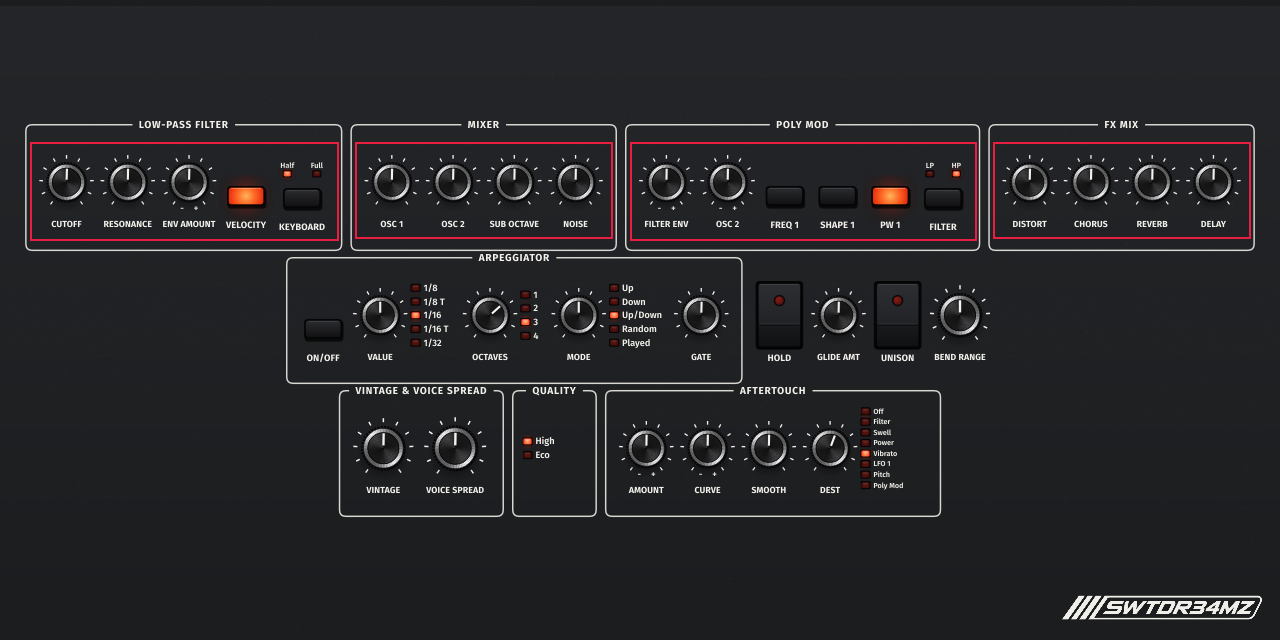
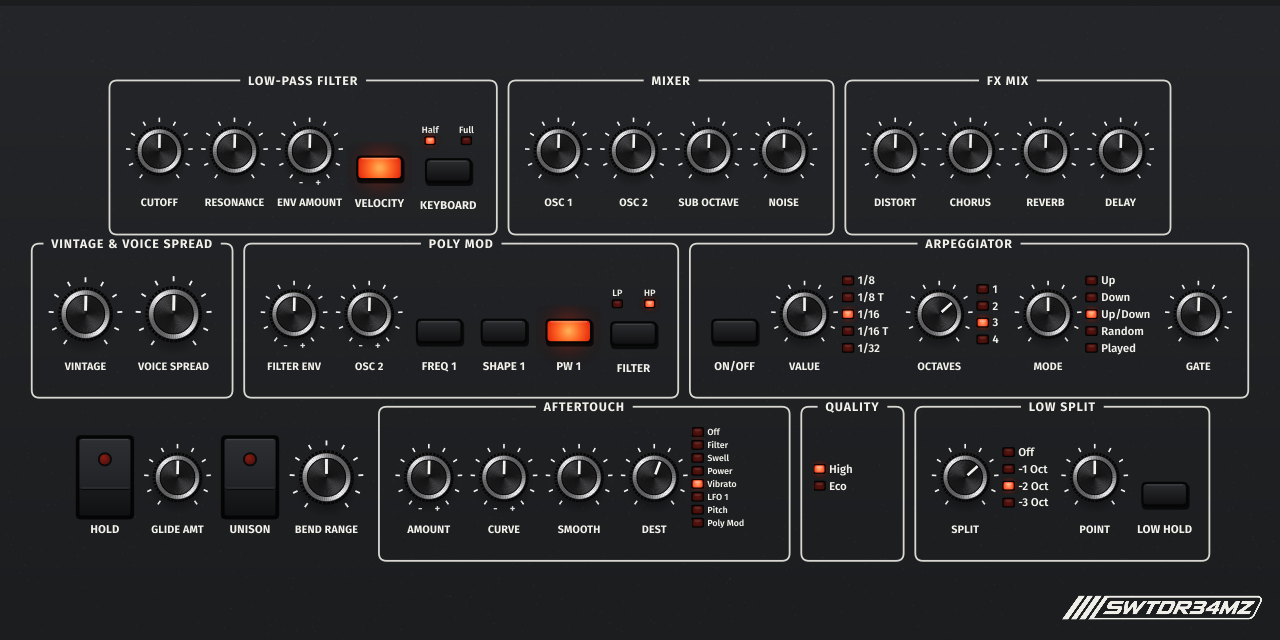
MPC: the handover (mpc/UEBERGABE.md), the catalog screenshot of the QUICK page as it is now
Claude-Session: https://claude.ai/code/session_019gwqiPBJFdyLn4VbSR5Sq5

diff --git a/mpc/UEBERGABE.md b/mpc/UEBERGABE.md
@@ -1,0 +1,79 @@
+# Übergabe: PROPHETIC 6, das MPC-Plugin von PROPHET 67
+
+Stand: 24.11.2026. Für eine neue Unterhaltung: dieses Protokoll anhängen oder einfügen, dazu das Repository
+`swtdr34mz-afk/PROPHET-67-VST` verbinden.
+
+## Worum es geht
+
+- **PROPHET 67** ist Toms Synth-Plugin im Prophet-6-Look: VST3 für Windows/Cubase (und Mac), gebaut mit JUCE 8.0.9.
+  Dieselbe Engine läuft auch als Firmware auf dem M-Vave FM-1.
+- **PROPHETIC 6** ist dieselbe Engine als Plugin für Akai-MPCs (Tom hat eine **MPC XL** mit 16 Q-Links), gebaut mit
+  Akais MPC Plugin SDK. Der Name ist bewusst anders, weil der Open-MPC-Katalog keine Herstellernamen im Plugin-Namen
+  erlaubt.
+- Autor/Hersteller überall: **swtdr34mz**. Toms Tag (SWTDR34MZ-Logo, `res/swtdr34mz-tag.png`) sitzt im VST rechts
+  unten (statt des alten Badges) und auf jeder MPC-Seite rechts unten.
+- Ziel: PROPHETIC 6 im **OpenMPC Plugin Manager** (Katalog `open-mpc/mpc-vst-plugins`).
+
+## Stand
+
+- `main` enthält alles: Audit/Optimierung der Engine (PR #1), MPC-Plugin mit Skin (PR #2). PR #3 (CI hängt die Zips an
+  ein auf GitHub veröffentlichtes Release) ist offen/gerade gemerged.
+- Tom hat PROPHET 67 bereits auf der MPC laufen gehabt (alte Version). Die neue Version mit den neuen Seiten ist auf
+  der MPC **noch nicht getestet**.
+- CI (`.github/workflows/build.yml`): Engine-Tests, MPC-Build (SDK gepinnt auf `a5949cf6fe2c…`, arm32 + arm64 +
+  native), Akais Validator (zuletzt **0 Fehler, 0 Warnungen**), eigener Host-Test (16 Checks), Windows-Build mit
+  pluginval (Strictness 8). Artifact `PROPHETIC6-MPC` = der fertige MPC-Ordner.
+
+## Das MPC-Plugin
+
+- Ordner auf der MPC: `VST2 Plugins/swtdr34mz - VST - PROPHETIC 6/` (den alten `… - PROPHET 67` löschen; neue uid
+  `Pr6c`, Dateien `VST/prophetic-6-arm32.so` / `-arm64.so`).
+- Code: `mpc/plugin/src/Prophet67Mpc.cpp` (SDK-Plugin), Engine geteilt mit dem VST (`src/P67Engine.*`, `dsp/`),
+  LOW SPLIT geteilt über `src/KeySplit.h`. `mpc/build.py` baut das SDK-Projekt aus dem Repo.
+- **94 Parameter, Reihenfolge fest** (neue nur hinten anhängen): 0 Volume; 1..74 die Sound-Parameter (`p0..p73`);
+  75..77 HP Velocity, HP Keyboard, FEnv Velocity; 78..84 Arp On, Mode, Rate, Octaves, Gate, Hold, Swing; 85 Quality
+  (HIGH/ECO); 86..93 LOW SPLIT (Split, Point, Scale L, Scale R, Key, Follow, Low Hold, Balance).
+- 16 Werksprogramme. Tempo und Programme kommen von der MPC.
+
+## Die Oberfläche (Skin)
+
+- Gezeichnet mit dem **Code des VST** (Potis, Buttons, LEDs, Displays, Sektionsrahmen aus `src/ui/`), Sektionen
+  innen wie im VST, nur größer. Keine Tastatur, keine Schieberegler.
+- Werkzeuge: `mpc/skin/render_skin.cpp` (JUCE, zeichnet die Seiten und schneidet jeden Regler in jedem Wert aus) und
+  `mpc/skin/make_skin.py` (macht daraus `mpc/plugin/skins/`: TUI.json, Q-Links.json, PNGs). Das Ergebnis liegt im
+  Repo; neu erzeugen nur, wenn sich Seiten ändern (Anleitung oben in `mpc/skin/CMakeLists.txt`; Pillow für die
+  256-Farben-Komprimierung).
+- Bedienung wie im VST: Potis ziehen oder per Q-Link, Doppeltipp = großes Werte-Fenster; Buttons per Tipp nach den
+  VST-Regeln; LED-Listen per Tipp; FX: SELECT und LEDs wählen den Effekt.
+
+| Seite | Inhalt (Zeilen) | Q-Links (Reihe oben → unten; 13–16 ist oben) |
+|---|---|---|
+| QUICK | LPF, MIXER, FX MIX · VINTAGE & SPREAD, POLY MOD, ARP · HOLD/GLIDE/UNISON/BEND, AFTERTOUCH, QUALITY, LOW SPLIT (nur SPLIT, POINT, LOW HOLD) | CUTOFF, RES, ENV AMOUNT, HPF CUTOFF · OSC1, OSC2, SUB, NOISE · VINTAGE, SPREAD, REVERB, DELAY · CHORUS, DISTORT, ARP ON/OFF, QUALITY |
+| OSC | OSC 1, OSC 2 · MIXER | OSC 1 · OSC 2 · MIXER |
+| FLT/ENV | HPF, FILTER ENV · LPF, AMP ENV | HPF · FILTER ENV · LPF · AMP ENV |
+| LFO | POLY MOD, LFO 1, LFO 2 | POLY MOD · LFO 1 · LFO 2 · beide DEST |
+| FX | EFFECTS (alle 5 Effekte inkl. DELAY und DLY MOD, wie im VST) | CHORUS · REVERB · DELAY · DLY MOD + SYNC |
+
+Offene Kleinigkeiten: SPACE (4 Regler) hat keine Q-Links; SWING (aus CLOCK) ist auf keiner Seite; LOW SPLITs
+Scales/Key/Follow/Balance nur in der Parameterliste.
+
+## Release und Katalog: nächste Schritte
+
+1. **Release:** Auf GitHub → Releases → „Draft a new release“ → neuer Tag **`v1.0.0`** auf `main` → veröffentlichen
+   (Titel frei, z. B. „PROPHET 67 1.0.0 / PROPHETIC 6 für die MPC“). Die CI hängt die Windows-/Mac-Zips und
+   **`PROPHETIC-6-1.0.0-mpc-sdk.zip`** an und schreibt dessen SHA-256 ins Log. (Tags und Releases kann Claude aus
+   der Cloud-Sitzung nicht anlegen.)
+2. **Katalog-PR** (mit Toms GitHub-Konto): `open-mpc/mpc-vst-plugins` forken → Branch → Datei
+   `catalog/plugins/prophetic-6.json` = `mpc/catalog/prophetic-6.json` aus diesem Repo (kein `asset_pattern`: der
+   Katalog wandelt das SDK-Zip selbst um). Screenshot-URL zeigt auf `mpc/catalog/screenshot.png` am Tag `v1.0.0`
+   (Screenshot ggf. auf die neue QUICK-Seite aktualisieren, **vor** dem Release). PR-Vorlage ausfüllen: Ausgabe von
+   `tools/catalog_check.py <zip> --catalog` und SHA-256 des Zips, „offline only“ bzw. Gerätetest angeben.
+3. **Gerätetest** auf der MPC XL, dann `tested.json` im Repo (Gerät, MPC-OS-Version, Datum) → Stufe „Verified“.
+4. Branding-Hinweis: „PROPHETIC 6“ ist nah an „Prophet-6“; die Reviewer könnten nachfragen. Kein Hersteller-Logo im
+   Skin (geprüft), Summary sagt „Prophet-6-style“.
+
+## Arbeitsregeln (wie bisher)
+
+- Auf Branches arbeiten, PRs, kein direkter Push auf `main`.
+- Keine Binaries Dritter lokal ausführen; Akais SDK-Build und pluginval laufen nur in der CI.
+- Vor öffentlichen oder nicht umkehrbaren Schritten Tom fragen.
